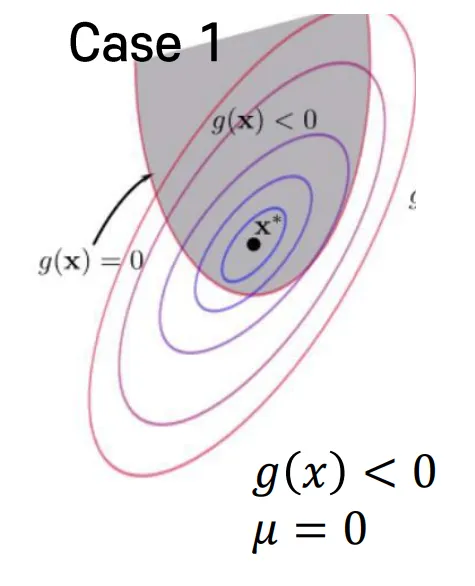
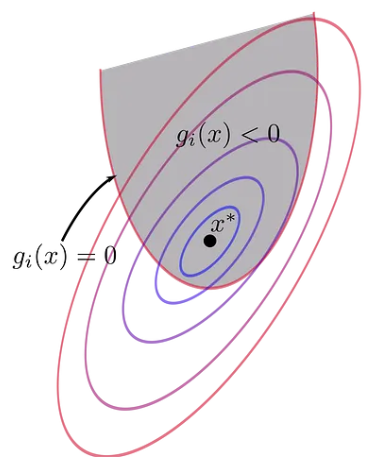
update

diff --git a/_posts/MML/2025-08-17-Lagrange.md b/_posts/MML/2025-08-17-Lagrange.md
@@ -54,19 +54,23 @@ $\lambda$는 라그랑주 승수 (Lagrange Multiplier)로, 비례 상수이다. 
 
 ## 라그랑주 승수법 (Lagrange Multiplier Method)
 
-비제약 최적화 문제에서는 $\nabla f(x)=0$처럼 목적 함수를 단순히 미분하여 최적점을 찾을 수 있지만, 제약 조건이 있을 때는 그럴 수 없다.
+비제약 최적화 문제에서는 단순히 $\nabla f(x)=0$을 만족하는 지점을 찾아 최적점을 찾을 수 있지만, 제약 조건이 있을 때는 그럴 수 없다.
 
-이를 가능하기 위해 목적 함수에 제약 조건을 포함시킨 함수인 라그랑주 함수 $\mathcal{L}$을 정의한다.
+이를 해결하기 위해 제약식을 목적 함수에 포함시킨 새로운 함수 $\mathcal{L}$을 정의하는데, 이를 라그랑주 함수 (Lagrangian) 라고 한다.
 
 $$
 \mathcal{L}(x,y,\lambda)=f(x,y)-\lambda g(x,y)
 $$
 
-라그랑주 함수를 모든 변수에 대해 편미분한 값이 0이 되는 지점을 찾는 것이 라그랑주 승수법이다.
+라그랑주 승수법은 다음 조건을 만족하는 점을 찾는 방법이다.
 
 $$
 \nabla_{x,y,\lambda}\mathcal{L}(x,y,\lambda)=0
 $$
+
+즉, 모든 변수 $x,y,\lambda$에 대해 편미분이 0이 되는 지점을 찾는 방법이며, 이를 통해 제약 최적화 문제를 비제약 최적화 문제로 바꾸어 풀 수 있게 된다.
+
+위 식을 전개하면 아래와 같다.
 
 $$
 \begin{equation}
@@ -74,23 +78,75 @@ $$
 \end{equation}
 $$
 
-이를 통해 제약 최적화 문제를 $\mathcal{L}$를 최소로 만드는 $x$와 $\lambda$를 찾는 비제약 최적화 문제로 바꿀 수 있다.
+$$
+\begin{equation}
+\frac{\partial\mathcal{L}}{\partial y}=\nabla_y f(x,y)-\lambda\nabla_y g(x,y)=0
+\end{equation}
+$$
+
+$$
+\begin{equation}
+\frac{\partial\mathcal{L}}{\partial\lambda}=-g(x,y)=0
+\end{equation}
+$$
+
+$(1), (2)$번 식에 의해 아래 식이 성립한다.
+
+$$
+\nabla f(x,y)=\lambda\nabla g(x,y)
+$$ 
+
+$(3)$번 식에 의해 아래의 식이 성립한다.
+
+$$
+g(x,y)=0
+$$
+
+즉, $\nabla_{x,y,\lambda}\mathcal{L}(x,y,\lambda)=0$은 제약 조건을 만족하면서 목적 함수의 기울기 방향이 제약식의 기울기와 일치하는 점을 찾는 것과 같다.
+
+<details>
+<summary><font color='#FF0000'>Example 1</font></summary>
+<div markdown="1">
+
+
+
+</div>
+</details>
+
+## 제약 조건이 여러 개인 경우
+
+제약 조건이 여러 개인 경우는 어떻게 풀어야할까? 먼저 제약 조건이 2개인 경우에 대해서
 
 $$
 \begin{aligned}
-\frac{\partial\mathcal{L}}{\partial x}=\nabla_x f(x,y)-\lambda\nabla_x g(x,y)=0
-\\
-\frac{\partial\mathcal{L}}{\partial y}=\nabla_y f(x,y)-\lambda\nabla_y g(x,y)=0
+\mathbf{x}^*=\min_{\mathbf{x}}f(\mathbf{x})~~~~\\
+\text{subject to}~g_1(\mathbf{x})=a\\
+g_2(\mathbf{x})=b
 \end{aligned}
-~~\to~~\nabla f(x,y)=\lambda\nabla g(x,y)
 $$
 
+제약 조건에서의 최적점은 두 제약식의 그라디언트의 선형 결합으로 표현할 수 있다.
+
 $$
-\frac{\partial\mathcal{L}}{\partial\lambda}=-g(x,y)=0
-~~\to~~g(x,y)=0
+\nabla f(\mathbf{x}^*)=\lambda\nabla g_1(\mathbf{x}^*)+\mu\nabla g_2(\mathbf{x}^*)
 $$
 
-### max-min equality
+![fig1](mlm/o17-4.png){: style="display:block; margin:0 auto; width:60%;"}
+_[[출처]](https://www.geogebra.org/m/hmcfh5cq)_
+
+이를 일반화하면 아래와 같다.
+
+$$
+\nabla f(\mathbf{x}^*)=\sum_{k=1}^M\lambda_k\nabla g_k(\mathbf{x}^*)
+$$
+
+따라서, 라그랑주 함수는 아래와 같이 정의된다.
+
+$$
+\mathcal{L}(\mathbf{x}^*,\boldsymbol\lambda)=f(\mathbf{x})-\sum_{k=1}^M\lambda_k\nabla g_k(\mathbf{x})
+$$
+
+## max-min equality
 
 $$
 \underset{\lambda}{\max}~\underset{x}{\min} ~f(x,\lambda)\leq\underset{x}{\min}~\underset{\lambda}{\max}~f(x,\lambda)

diff --git a/_posts/MML/2025-08-18-KKT.md b/_posts/MML/2025-08-18-KKT.md
@@ -8,6 +8,8 @@ toc: true
 author: sunho
 ---
 
+## 부등식 제약 최적화 (Inequality Constrained Optimization)
+
 ## KKT conditions
 
 $$
@@ -60,8 +62,8 @@ $$
 
 **Case1)** $g_i(\mathbf{x}^\*)<0~\rightarrow~\lambda_i^\*=0$
 
-![fig2](mlm/o17-1.png){: style="display:block; margin:0 auto; width:60%;"}
-_[[출처]](https://www.cnblogs.com/pingzeng/p/7019221.html)_
+![fig2](mlm/o18-1.png){: style="display:block; margin:0 auto; width:60%;"}
+_[[출처]](https://medium.com/data-science/lagrange-multipliers-kkt-conditions-duality-intuitively-explained-de09f645b068)_
 
 
 
@@ -72,8 +74,8 @@ _[[출처]](https://www.cnblogs.com/pingzeng/p/7019221.html)_
 
 **Case2)** $\lambda_i^\*>0~\rightarrow~g_i(\mathbf x^\*)=0$
 
-![fig2](mlm/o17-2.png){: style="display:block; margin:0 auto; width:60%;"}
-_[[출처]](https://www.cnblogs.com/pingzeng/p/7019221.html)_
+![fig2](mlm/o18-2.png){: style="display:block; margin:0 auto; width:60%;"}
+_[[출처]](https://medium.com/data-science/lagrange-multipliers-kkt-conditions-duality-intuitively-explained-de09f645b068)_
 
 - Optimal $\mathbf x^\*$가 제약 조건의 경계에 있는 경우를 의미한다. → $g_i(\mathbf x^\*)=0$
 - 원래 목적 함수의 최적해가 제약 조건 영역의 바깥에 있었기 때문에, 제약 조건이 존재할 때의 최적해는 기존의 최적해와 다르다.
